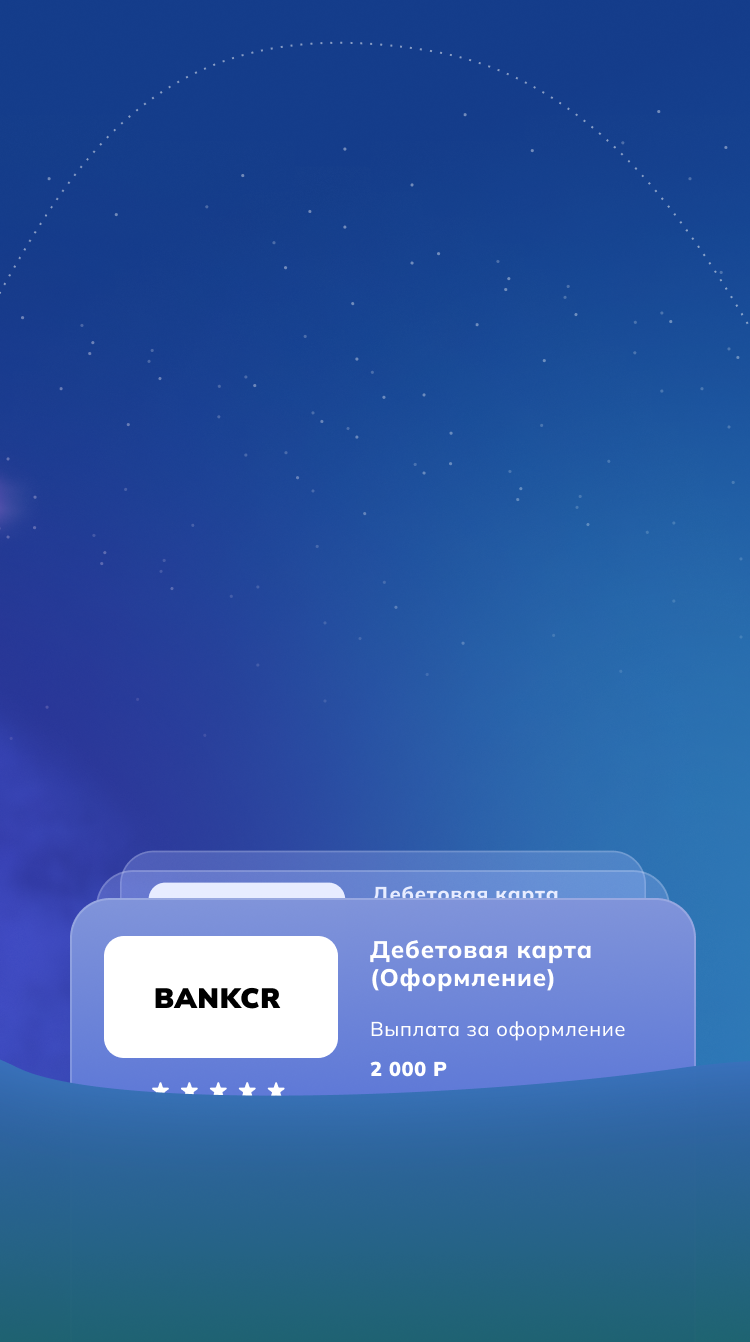
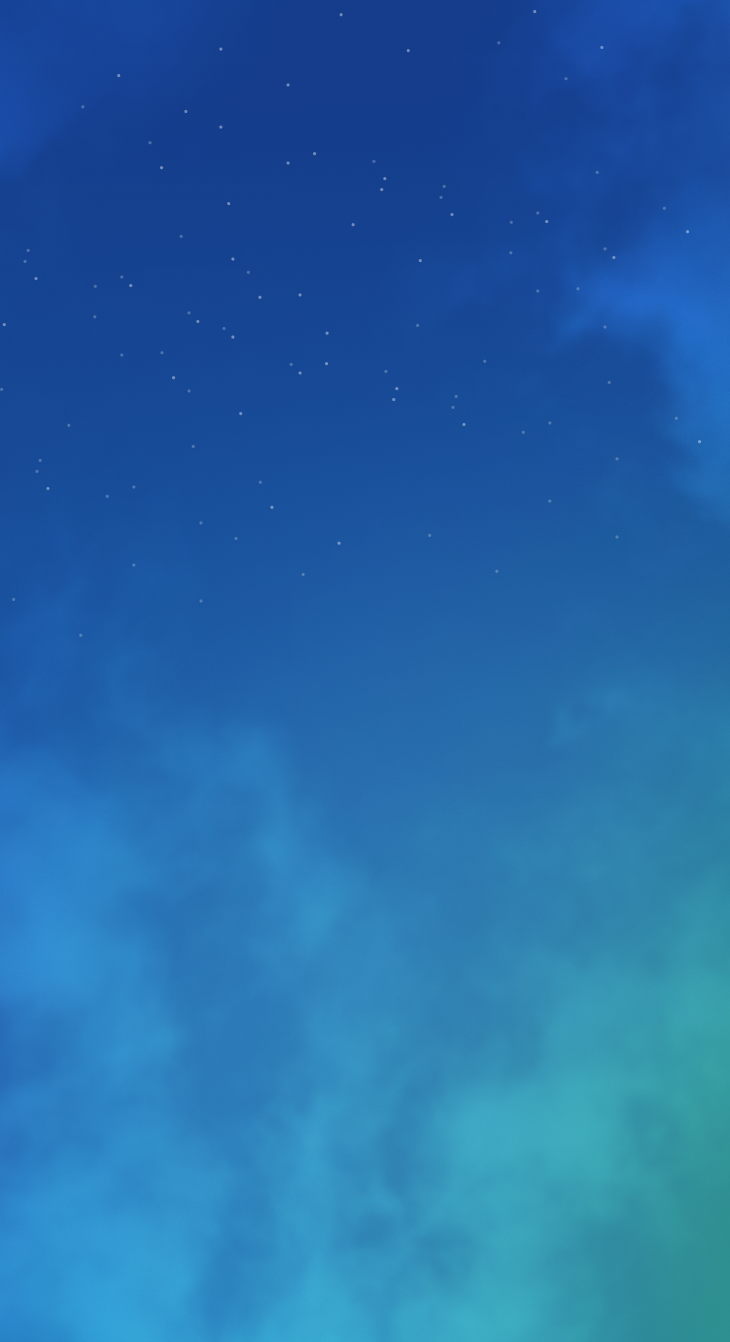
feat: screen 2

diff --git a/components/Screens/Onboarding/WelcomeScreen2.tsx b/components/Screens/Onboarding/WelcomeScreen2.tsx
@@ -13,7 +13,7 @@ import Animated, {
   interpolate,
   useAnimatedStyle,
 } from 'react-native-reanimated';
-
+const {width} = Dimensions.get('window');
 const WelcomeScreen2: React.FC<{
   animValue: SharedValue<number>;
   index: number;
@@ -28,16 +28,34 @@ const WelcomeScreen2: React.FC<{
       opacity: inter,
     };
   });
+  const yStyle = useAnimatedStyle(() => {
+    const inter = interpolate(
+      animValue.value,
+      [(index - 1) * width, index * width, (index + 1) * width],
+      [0, 1, 0],
+    );
+
+    const interY = interpolate(
+      animValue.value,
+      [(index - 1) * width, index * width, (index + 1) * width],
+      [1, 0, 1],
+    );
+
+    return {
+      transform: [{translateY: interY * -100}],
+      opacity: inter,
+    };
+  });
   return (
     <ImageBackground
       source={require('../../../assets/welcome2.png')}
       imageStyle={styles.backgroundImageContainer}
       style={styles.child}>
-      <Image
+      {/* <Image
         source={require('../../../assets/robot2.png')}
         style={styles.image}
         resizeMode="contain"
-      />
+      /> */}
 
       <Animated.View style={[styles.textContainer, rStyle]}>
         <Text style={stylesConst.text_title_32_e}>
@@ -46,33 +64,57 @@ const WelcomeScreen2: React.FC<{
         <Text style={stylesConst.text_14_r}>
           за счет своих встроенных алгоритмов они увеличат ваш заработок
         </Text>
-        <View style={{position: 'absolute', flex: 1}}>
-          <Image
-            style={{
-              width: (width * 170) / 375,
-              top: (256 * height) / 670,
-              left: (56 * width) / 375,
-              position: 'absolute',
-            }}
-            source={require('../../../assets/analytics.png')}
-            resizeMode="contain"
-          />
-          <Image
-            style={{
-              width: (width * 179) / 375,
-              top: (307 * height) / 670,
-              left: (189 * width) / 375,
-              position: 'absolute',
-            }}
-            source={require('../../../assets/bot.png')}
-            resizeMode="contain"
-          />
-        </View>
       </Animated.View>
+      <Animated.View
+        style={[
+          {
+            position: 'absolute',
+            height: (670 / 375) * width * 0.46,
+            zIndex: 3,
+            width: (312 * width) / 375,
+            left: 56,
+            bottom: 116,
+          },
+
+          rStyle,
+        ]}>
+        <Image
+          style={{height: '100%', width: '100%'}}
+          source={require('../../../assets/anal2.png')}
+        />
+      </Animated.View>
+      <Animated.View style={rStyle}>
+        <Image
+          style={[
+            {
+              position: 'absolute',
+              height: (670 / 375) * width * 0.12,
+              zIndex: 0,
+              width: (59 * width) / 375,
+              left: '40%',
+              bottom: 135,
+            },
+          ]}
+          resizeMode="contain"
+          resizeMethod="scale"
+          source={require('../../../assets/anal3.png')}
+        />
+      </Animated.View>
+
+      <Image
+        source={require('../../../assets/bottom2.png')}
+        style={{
+          width: width,
+          position: 'absolute',
+          height: (670 / 375) * width,
+          bottom: 0,
+          zIndex: 0,
+        }}
+      />
     </ImageBackground>
   );
 };
-const {width, height} = Dimensions.get('window');
+
 export default WelcomeScreen2;
 
 const styles = StyleSheet.create({
@@ -91,6 +133,7 @@ const styles = StyleSheet.create({
     paddingTop: 88,
     paddingLeft: 34,
     paddingRight: 45,
+    zIndex: 3,
   },
   profileStyle: {
     position: 'absolute',

diff --git a/components/Screens/Onboarding/WelcomeScreen1.tsx b/components/Screens/Onboarding/WelcomeScreen1.tsx
@@ -4,9 +4,10 @@ import {
   ImageBackground,
   StyleSheet,
   Text,
+  View,
 } from 'react-native';
 import React from 'react';
-import {colors, stylesConst} from '../../../constants';
+import {colors, normalize, stylesConst} from '../../../constants';
 import Animated, {
   SharedValue,
   interpolate,
@@ -47,25 +48,25 @@ const WelcomeScreen1: React.FC<{
           <Text style={stylesConst.text_title_32_e}>50 000</Text>
         </Text>
         <Text style={[stylesConst.text_12_r]}>
-          пользователей работают с нами
+          пользователей{'\n'}работают с нами
         </Text>
         <Text style={stylesConst.text_title_32_e}>22</Text>
-        <Text style={stylesConst.text_12_r}>бесплатных инструмента</Text>
+        <Text style={stylesConst.text_12_r}>бесплатных{'\n'}инструмента</Text>
       </Animated.View>
 
-      <Image
+      {/* <Image
         source={require('../../../assets/robot1.png')}
         style={styles.image}
-        resizeMode="contain"
-      />
+      /> */}
 
       <Image
         source={require('../../../assets/bottom1.png')}
         style={{
-          position: 'absolute',
           width: width,
-
-          height: '100%',
+          position: 'absolute',
+          height: (670 / 375) * width,
+          bottom: 0,
+          zIndex: 0,
         }}
       />
     </ImageBackground>
@@ -84,7 +85,8 @@ const styles = StyleSheet.create({
   },
 
   textContainer: {
-    flex: 1,
+    position: 'absolute',
+    zIndex: 3,
     gap: 16,
     paddingTop: 88,
     paddingLeft: 34,
@@ -122,9 +124,11 @@ const styles = StyleSheet.create({
     gap: 16,
   },
   image: {
+    height: 265,
+    width: 216,
     position: 'absolute',
-    right: 0,
-    width: (162 * width) / 375,
-    bottom: 0,
+    bottom: 92,
+    right: -44,
+    zIndex: 3,
   },
 });

diff --git a/components/Screens/Onboarding/WelcomeScreen7.tsx b/components/Screens/Onboarding/WelcomeScreen7.tsx
@@ -1,6 +1,7 @@
 /* eslint-disable react-native/no-inline-styles */
 import {
   Dimensions,
+  Image,
   ImageBackground,
   StyleSheet,
   Text,
@@ -53,10 +54,19 @@ const WelcomeScreen7: React.FC<{
           />
         </View>
       </Animated.View>
+      <Image
+        source={require('../../../assets/bottom7.png')}
+        style={{
+          width: width,
+          position: 'absolute',
+          height: (670 / 375) * width,
+          bottom: 0,
+        }}
+      />
     </ImageBackground>
   );
 };
-const {width} = Dimensions.get('window');
+const {width, height} = Dimensions.get('window');
 export default WelcomeScreen7;
 
 const styles = StyleSheet.create({
@@ -118,7 +128,9 @@ const styles = StyleSheet.create({
     paddingHorizontal: 32,
   },
   signinScreenContainer: {
-    paddingTop: 167,
+    position: 'absolute',
+    width: '100%',
+    bottom: (height * 135) / 670,
     alignItems: 'center',
     gap: 16,
   },

diff --git a/components/Screens/Onboarding/WelcomeScreen6.tsx b/components/Screens/Onboarding/WelcomeScreen6.tsx
@@ -1,4 +1,10 @@
-import {Dimensions, ImageBackground, StyleSheet, Text} from 'react-native';
+import {
+  Dimensions,
+  Image,
+  ImageBackground,
+  StyleSheet,
+  Text,
+} from 'react-native';
 import React from 'react';
 import {colors, stylesConst} from '../../../constants';
 import Animated, {
@@ -40,6 +46,15 @@ const WelcomeScreen6: React.FC<{
           Россия, Казахстан, Беларусь, Узбекистан, Шри-Ланка, Вьетнам, Филиппины
         </Text>
       </Animated.View>
+      <Image
+        source={require('../../../assets/bottom6.png')}
+        style={{
+          width: width,
+          position: 'absolute',
+          height: (670 / 375) * width,
+          bottom: 0,
+        }}
+      />
     </ImageBackground>
   );
 };

diff --git a/components/Screens/Onboarding/WelcomeScreen3.tsx b/components/Screens/Onboarding/WelcomeScreen3.tsx
@@ -1,4 +1,10 @@
-import {Dimensions, ImageBackground, StyleSheet, Text} from 'react-native';
+import {
+  Dimensions,
+  Image,
+  ImageBackground,
+  StyleSheet,
+  Text,
+} from 'react-native';
 import React from 'react';
 import {colors, stylesConst} from '../../../constants';
 import Animated, {
@@ -34,6 +40,15 @@ const WelcomeScreen3: React.FC<{
           с возможностью управления{'\n'}через бота в Telegram
         </Text>
       </Animated.View>
+      <Image
+        source={require('../../../assets/bottom3.png')}
+        style={{
+          width: width,
+          position: 'absolute',
+          height: (670 / 375) * width,
+          bottom: 0,
+        }}
+      />
     </ImageBackground>
   );
 };

diff --git a/components/Screens/Onboarding/WelcomeScreen4.tsx b/components/Screens/Onboarding/WelcomeScreen4.tsx
@@ -1,4 +1,10 @@
-import {Dimensions, ImageBackground, StyleSheet, Text} from 'react-native';
+import {
+  Dimensions,
+  Image,
+  ImageBackground,
+  StyleSheet,
+  Text,
+} from 'react-native';
 import React from 'react';
 import {colors, stylesConst} from '../../../constants';
 import Animated, {
@@ -35,6 +41,15 @@ const WelcomeScreen4: React.FC<{
           течение 1-2 рабочих дней
         </Text>
       </Animated.View>
+      <Image
+        source={require('../../../assets/bottom4.png')}
+        style={{
+          width: width,
+          position: 'absolute',
+          height: (670 / 375) * width,
+          bottom: 0,
+        }}
+      />
     </ImageBackground>
   );
 };

diff --git a/components/Screens/Onboarding/WelcomeScreen5.tsx b/components/Screens/Onboarding/WelcomeScreen5.tsx
@@ -1,4 +1,10 @@
-import {Dimensions, ImageBackground, StyleSheet, Text} from 'react-native';
+import {
+  Dimensions,
+  Image,
+  ImageBackground,
+  StyleSheet,
+  Text,
+} from 'react-native';
 import React from 'react';
 import {colors, stylesConst} from '../../../constants';
 import Animated, {
@@ -35,6 +41,15 @@ const WelcomeScreen5: React.FC<{
           Saleads.pro и найдет решение
         </Text>
       </Animated.View>
+      <Image
+        source={require('../../../assets/bottom5.png')}
+        style={{
+          width: width,
+          position: 'absolute',
+          height: (670 / 375) * width,
+          bottom: 0,
+        }}
+      />
     </ImageBackground>
   );
 };
